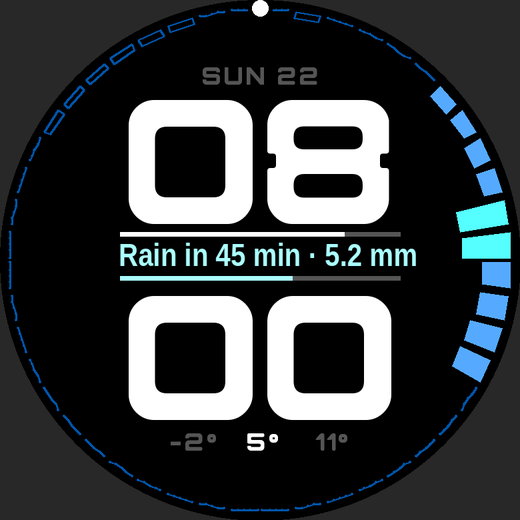
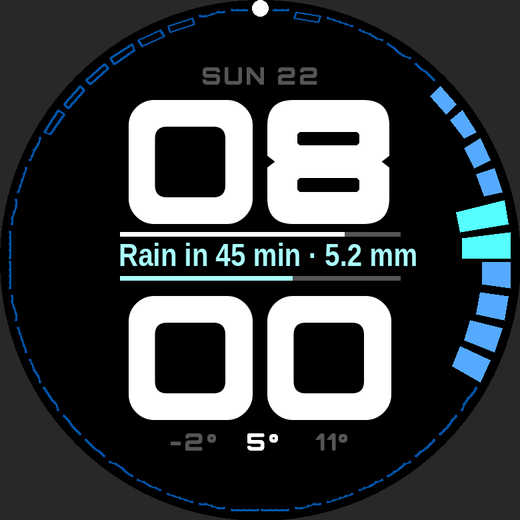
Clock font: new 8 drawn to spec (slot counters, V notches)
Claude-Session: https://claude.ai/code/session_015HmYPjfyQ65s3v6ZviQxa9

diff --git a/tools/font/make_digits.py b/tools/font/make_digits.py
@@ -25,59 +25,49 @@ for r in f["name"].names:
         r.string = r.toUnicode() + " Modified for Contour (plain zero)."
 f.save(dst)
 
-# The 8 gets a clear waist: a round notch on both sides at the middle bar.
+# The 8 is drawn from scratch to Maurin's description: two very heavy, wide,
+# rounded-rectangle loops fused into one broad block with flat top and bottom,
+# heavily rounded outer corners, a small sharp V notch on each side at the
+# middle, and two equal, very thin, wide slot counters with small chamfers.
 from fontTools.pens.ttGlyphPen import TTGlyphPen
-from fontTools.pens.recordingPen import DecomposingRecordingPen
 
 f = TTFont(dst)
-gs = f.getGlyphSet()
-rec = DecomposingRecordingPen(gs)
-gs["eight"].draw(rec)
-coords, ends, flags = f["glyf"]["eight"].getCoordinates(f["glyf"])
-# A smooth dip: the side runs straight into the notch and out again with no
-# corner (TrueType quadratic curves, tangent stays vertical at both ends).
-# A short square notch with softly rounded corners, cut into the middle bar.
-M, W, D, R = 365, 42, 52, 18  # middle, half height, depth, corner radius
-def dip(x, k):  # k = +1 on the left side, -1 on the right side
-    i = x + k * D
-    pts = [((x, M - W - R), 1), ((x, M - W), 0), ((x + k * R, M - W), 1),
-           ((i - k * R, M - W), 1), ((i, M - W), 0), ((i, M - W + R), 1),
-           ((i, M + W - R), 1), ((i, M + W), 0), ((i - k * R, M + W), 1),
-           ((x + k * R, M + W), 1), ((x, M + W), 0), ((x, M + W + R), 1)]
-    return pts
-outer = [((x, y), fl & 1) for (x, y), fl in zip(list(coords)[:ends[0] + 1], list(flags)[:ends[0] + 1])]
-left = [((57, 145), 1)] + dip(57, 1) + [((57, 575), 1)]
-right = [((764, 601), 1)] + list(reversed(dip(764, -1))) + [((764, 145), 1)]
-new = []
-skip = None
-for pt in outer:
-    if pt[0] == (57, 145):
-        new += left; skip = (57, 575); continue
-    if pt[0] == (764, 601):
-        new += right; skip = (764, 145); continue
-    if skip:
-        if pt[0] == skip: skip = None
-        continue
-    new.append(pt)
-pen = TTGlyphPen(gs)
-def contour(pts):
-    # TrueType quadratic contour from on/off points
-    start = pts[0][0]
-    pen.moveTo(start)
-    offs = []
-    for p, on in pts[1:]:
-        if on:
-            if offs: pen.qCurveTo(*offs, p); offs = []
-            else: pen.lineTo(p)
-        else:
-            offs.append(p)
-    if offs: pen.qCurveTo(*offs, start)
+X0, X1, Y0, Y1 = 57, 764, 0, 720       # same box as the other digits
+RC = 150                               # outer corner radius
+MID, VN, VD = 360, 34, 44              # notch: middle, half height, depth
+SH, SX0, SX1, CH = 80, 230, 591, 14    # slot height, slot x range, chamfer
+WALL = (Y1 - Y0 - 2 * SH) // 3         # equal top, middle and bottom bars
+
+pen = TTGlyphPen(None)
+# Outer shape, clockwise.
+pen.moveTo((X1 - RC, Y0))
+pen.lineTo((X0 + RC, Y0))
+pen.qCurveTo((X0, Y0), (X0, Y0 + RC))
+pen.lineTo((X0, MID - VN))
+pen.lineTo((X0 + VD, MID))
+pen.lineTo((X0, MID + VN))
+pen.lineTo((X0, Y1 - RC))
+pen.qCurveTo((X0, Y1), (X0 + RC, Y1))
+pen.lineTo((X1 - RC, Y1))
+pen.qCurveTo((X1, Y1), (X1, Y1 - RC))
+pen.lineTo((X1, MID + VN))
+pen.lineTo((X1 - VD, MID))
+pen.lineTo((X1, MID - VN))
+pen.lineTo((X1, Y0 + RC))
+pen.qCurveTo((X1, Y0), (X1 - RC, Y0))
+pen.closePath()
+# Two slot counters, anticlockwise.
+for yb in (Y0 + WALL, Y1 - WALL - SH):
+    yt = yb + SH
+    pen.moveTo((SX0 + CH, yb))
+    pen.lineTo((SX1 - CH, yb))
+    pen.lineTo((SX1, yb + CH))
+    pen.lineTo((SX1, yt - CH))
+    pen.lineTo((SX1 - CH, yt))
+    pen.lineTo((SX0 + CH, yt))
+    pen.lineTo((SX0, yt - CH))
+    pen.lineTo((SX0, yb + CH))
     pen.closePath()
-contour(new)
-s = ends[0] + 1
-for e in ends[1:]:
-    contour([((x, y), fl & 1) for (x, y), fl in zip(list(coords)[s:e + 1], list(flags)[s:e + 1])])
-    s = e + 1
 f["glyf"]["eight"] = pen.glyph()
 f.save(dst)
 
@@ -88,7 +78,7 @@ CORNER = 70  # radius in font units (capped at 45% of each edge)
 
 f = TTFont(dst)
 glyf = f["glyf"]
-for name in ["zero", "one", "two", "three", "four", "five", "six", "seven", "eight", "nine"]:
+for name in ["zero", "one", "two", "three", "four", "five", "six", "seven", "nine"]:  # the 8 is drawn above
     g = glyf[name]
     if g.isComposite():
         continue

diff --git a/resources/fonts/README.md b/resources/fonts/README.md
@@ -1,6 +1,6 @@
 `ContourDigits-Black.ttf` is a modified version of Orbitron Black by Matt
 McInerney and the Orbitron Project Authors (https://github.com/theleagueof/orbitron),
 licensed under the SIL Open Font License 1.1 (https://openfontlicense.org).
-The changes are a plain zero instead of the slashed one and a short notch with rounded corners on both sides of the 8 and rounded corners everywhere; it is renamed
+The changes are a plain zero instead of the slashed one and an 8 drawn from scratch (two thin slot counters, small V notches at the sides) and rounded corners everywhere; it is renamed
 because "Orbitron" is a Reserved Font Name. `tools/font/make_digits.py`
 rebuilds it. Only the digits are built into the watchface.
